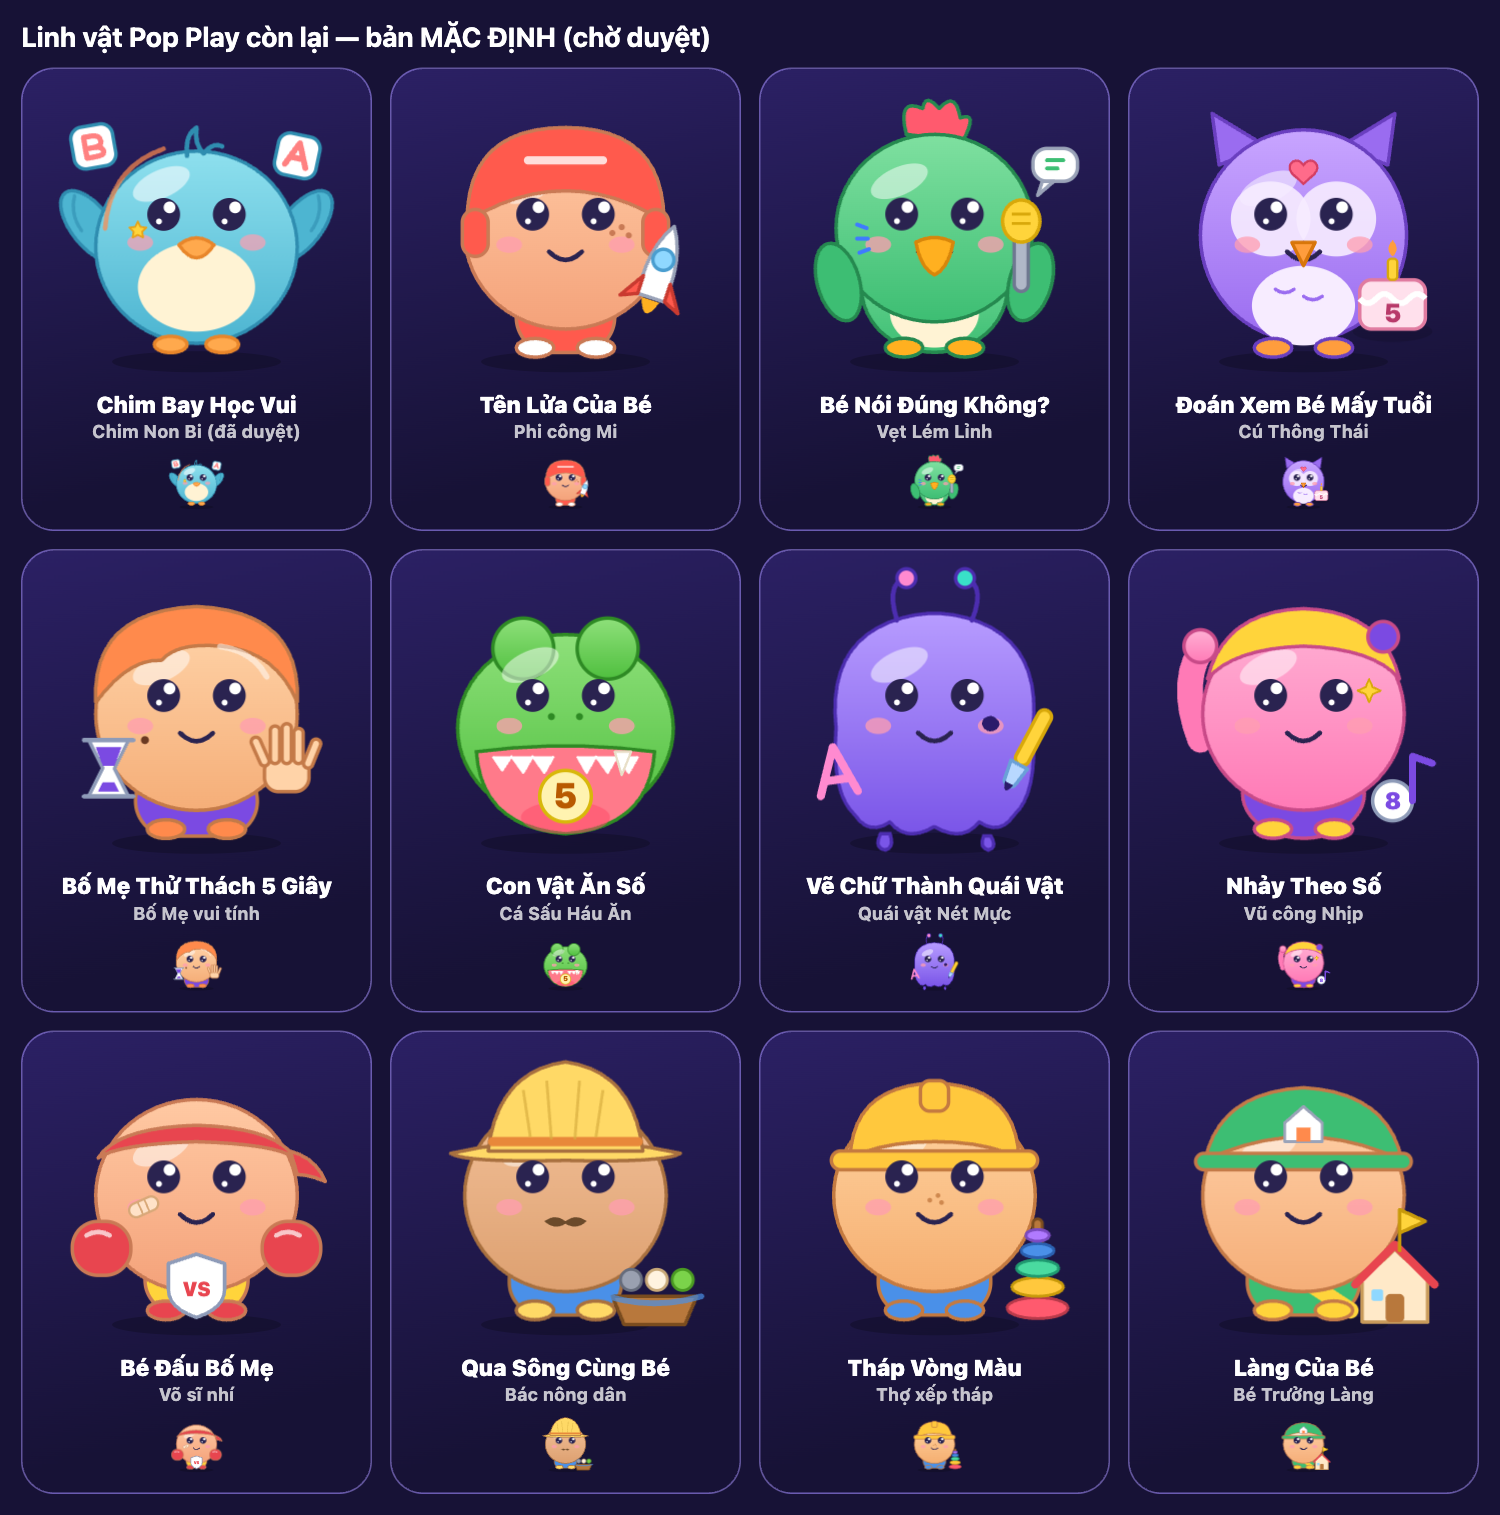
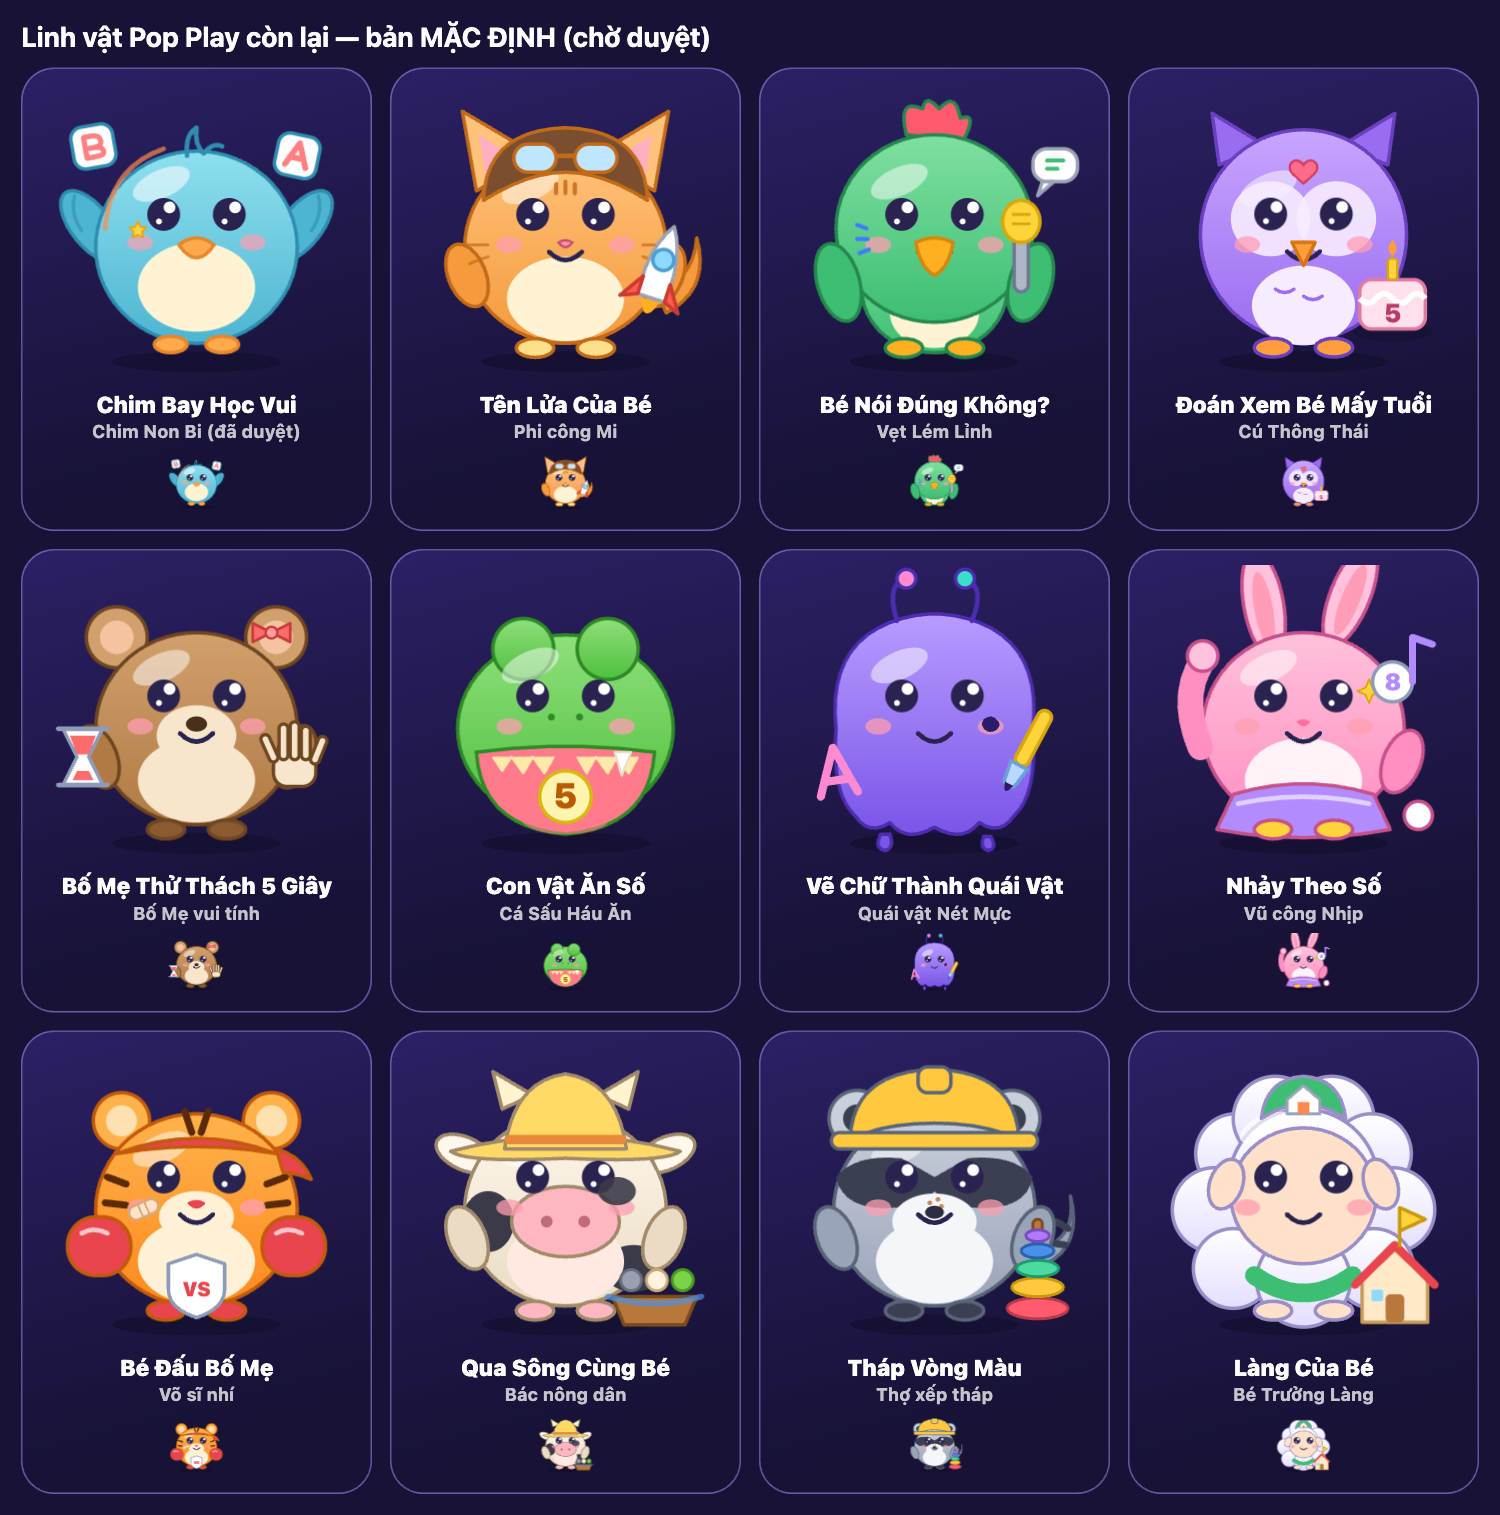
Linh vật Pop mẫu: 7 con đổi thành nhân vật thú khác biệt, dễ thương (mèo phi công, gấu, thỏ vũ công, hổ con võ sĩ, bò sữa nông dân, gấu trúc mèo thợ, cừu trưởng làng); cache sw v314

diff --git a/sw.js b/sw.js
@@ -5,7 +5,7 @@
 /* v14: hub (hai thẻ Pop/Night) chuyển từ "/" sang "/play/"; "/" và "/en/" là landing giới thiệu (không nằm trong SHELL, không cần offline).
    Bản v13 trở xuống lưu hub cũ ở khoá "/index.html": activate xoá toàn bộ cache khác tên, nên người dùng cũ tự dọn khi SW mới cài (mạng trước nên "/" luôn lấy landing mới).
    Khi mất mạng mà không có bản lưu của trang đang mở, điều hướng rơi về /play/index.html (hub), KHÔNG về "/" nữa. */
-const CACHE = "np-shell-v313";
+const CACHE = "np-shell-v314";
 const SHELL = ["/play/index.html", "/cozyplay/index.html", "/popplay/index.html", "/cozyplay/games/dap-deadline/index.html", "/cozyplay/games/cozy-wings/index.html", "/cozyplay/games/gia-cho-viet/index.html", "/cozyplay/games/xin-nghi/index.html", "/cozyplay/games/me-cung-truyen-tay/index.html", "/cozyplay/games/cho-hang-kieu-viet/index.html", "/cozyplay/games/xe-ca-phe/index.html", "/cozyplay/games/duong-ray/index.html", "/cozyplay/games/xay-cau-tre/index.html", "/cozyplay/games/song-sot-cuoi-thang/index.html", "/cozyplay/games/shipper-sieu-toc/index.html", "/cozyplay/games/ne-o-ga/index.html", "/cozyplay/games/noi-mot-net/index.html", "/cozyplay/games/mat-tinh-khong/index.html", "/cozyplay/games/cat-banh-chung/index.html", "/cozyplay/games/ve-mot-net/index.html", "/cozyplay/games/bao-nhieu-giay/index.html", "/cozyplay/games/ban-co-hieu-toi/index.html", "/cozyplay/games/ga-me-ban-trung/index.html", "/cozyplay/games/doi-doi-2048/index.html", "/popplay/games/pop-fly/index.html", "/popplay/games/lang-cua-be/index.html", "/popplay/games/be-dau-bo-me/index.html", "/popplay/games/ten-lua-cua-be/index.html", "/popplay/games/be-noi-dung-khong/index.html", "/popplay/games/doan-tuoi-nao/index.html", "/popplay/games/bo-me-5-giay/index.html", "/popplay/games/con-vat-an-so/index.html", "/popplay/games/ve-chu-quai-vat/index.html", "/popplay/games/nhay-theo-so/index.html", "/popplay/games/qua-song/index.html", "/popplay/games/thap-vong-mau/index.html",
   "/help.html", "/shared.html", "/leaderboard.html", "/subscribe.html", "/privacy.html", "/terms.html", "/documents.html", "/nightpass.html", "/nightpass-theme.html", "/nightpass-badges.html", "/nightpass-mascot.html", "/mascot-review.html", "/restricted.html",
   "/shared/theme.css", "/shared/align.css", "/shared/landscape.css", "/shared/endui.css", "/shared/endui.js", "/shared/landscape.js", "/shared/poplandscape.css", "/shared/popnp.css", "/shared/popfit.js", "/shared/pophelp.js", "/shared/popmenu.js", "/shared/icons.js", "/shared/dock.js", "/shared/parentgate.js", "/shared/lockhint.js", "/shared/eventcode.js", "/shared/resume.js", "/shared/fan.js", "/shared/device.js", "/shared/passwatch.js", "/shared/layout.css", "/shared/bars.css", "/shared/bars.js", "/shared/social.js", "/shared/bridge.js", "/shared/combohide.js", "/shared/widebg.js", "/shared/multi.css", "/shared/multi-games.js", "/shared/orbit.js", "/shared/orbit.css", "/shared/orbit-icons/dap-deadline.svg", "/shared/orbit-icons/gia-cho-viet.svg", "/shared/orbit-icons/cozy-wings.svg", "/shared/orbit-icons/xin-nghi.svg", "/shared/orbit-icons/song-sot-cuoi-thang.svg", "/shared/orbit-icons/cho-hang-kieu-viet.svg", "/shared/orbit-icons/ten-lua-cua-be.svg", "/shared/orbit-icons/con-vat-an-so.svg", "/shared/orbit-icons/ve-chu-quai-vat.svg", "/shared/orbit-icons/nhay-theo-so.svg", "/shared/orbit-icons/thap-vong-mau.svg", "/shared/orbit-icons/lang-cua-be.svg", "/cozyplay/multi.html", "/shared/guard.js", "/shared/help.js", "/shared/typeui.css",

diff --git a/scripts/cozygame/check-art.js b/scripts/cozygame/check-art.js
@@ -22,7 +22,7 @@ for (const f of files) {
   if (n > 90) ko(f, "phần thân " + n + " phần tử (> 90, gồm cả các biến thể dáng thân)");
   if (kb > 16) ko(f, "tệp " + kb.toFixed(1) + "KB (> 16KB gồm cả 4 skin + biến thể dáng thân)");
   const rootFill = s.match(/<(path|circle|ellipse|rect)\b[^>]*\bfill="#[0-9a-fA-F]{3,6}"[^>]*>/g) || [];
-  if (/id="body"/.test(s)) { const bodyG = s.slice(s.indexOf('id="body"'), s.indexOf('id="face"')); if (/fill="#(?!fff"|ffffff")[0-9a-fA-F]{3,6}"/i.test(bodyG)) ko(f, "thân dùng màu cứng (phải dùng biến var(--c1...))"); }
+  if (/id="body"/.test(s) && !/BẢN MẪU chờ duyệt/.test(s)) {   /* bản mẫu chỉ-mặc-định (gen-pop.js) được dùng màu cứng ở thân; khi làm 4 skin phải chuyển sang biến */ const bodyG = s.slice(s.indexOf('id="body"'), s.indexOf('id="face"')); if (/fill="#(?!fff"|ffffff")[0-9a-fA-F]{3,6}"/i.test(bodyG)) ko(f, "thân dùng màu cứng (phải dùng biến var(--c1...))"); }
   console.log("  " + f + ": " + n + " phần tử thân, " + kb.toFixed(1) + "KB");
 }
 console.log(bad ? "\n✗ " + bad + " lỗi linh vật" : "\n✓ linh vật SVG đạt");
